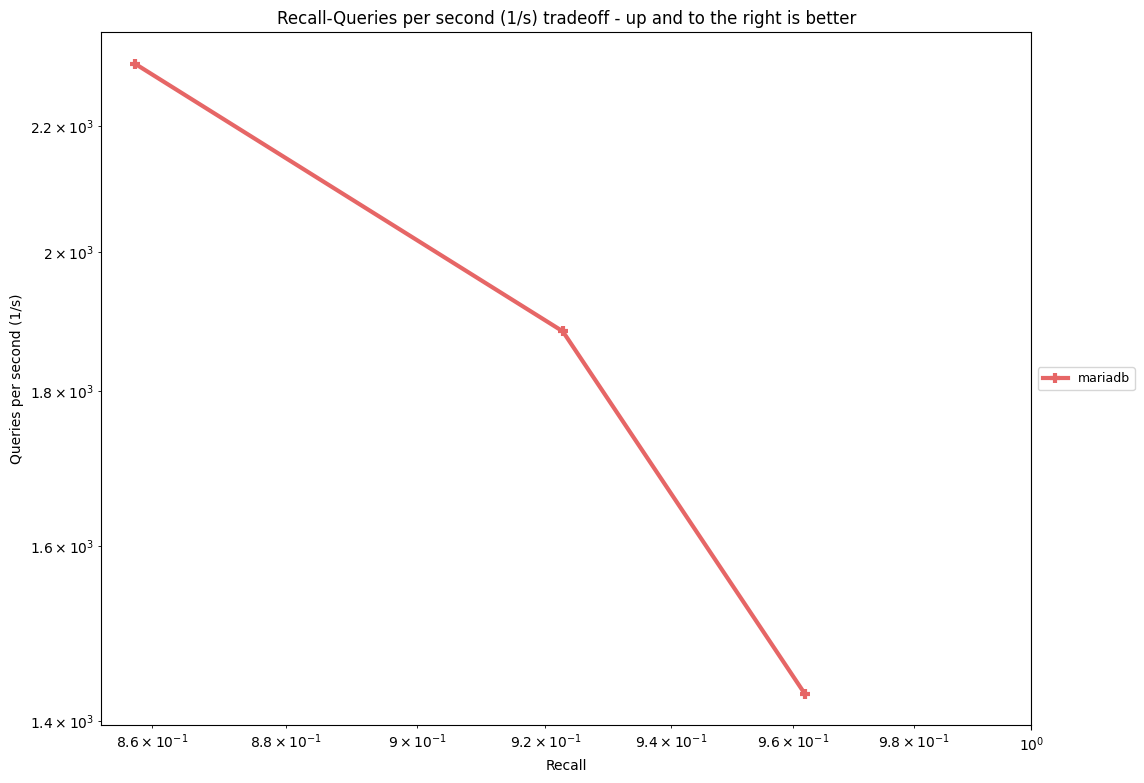
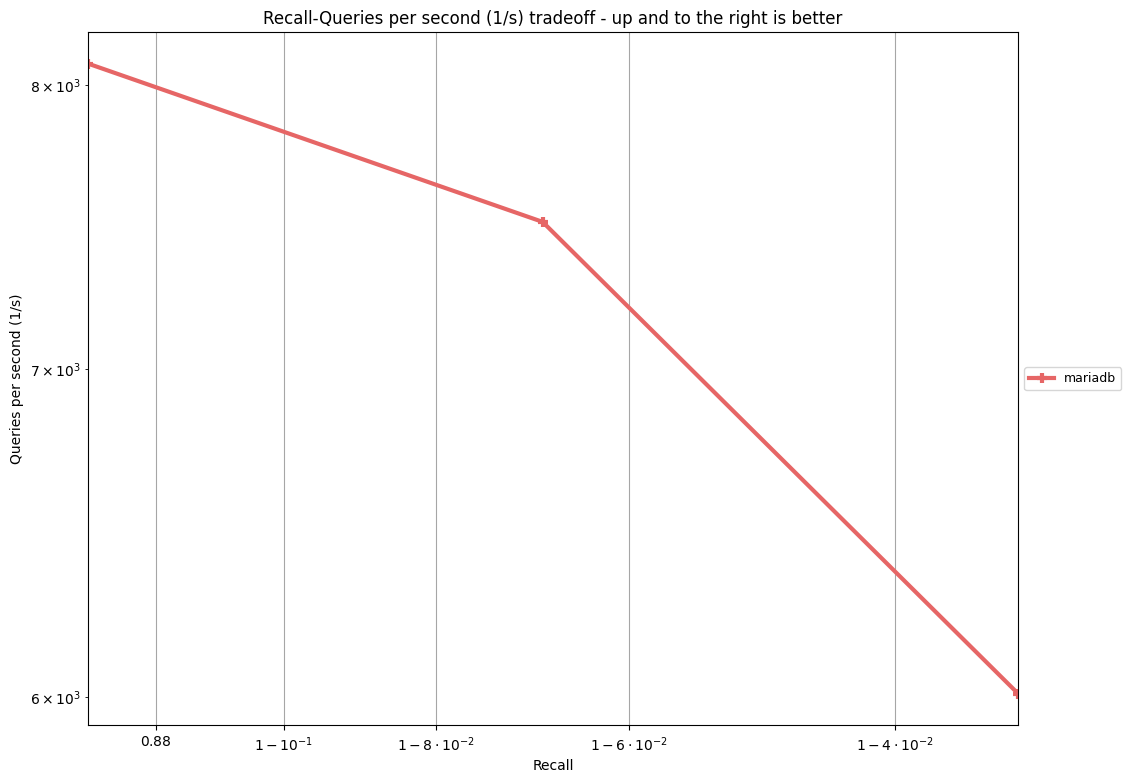
[dirty] fix cache size parameter

diff --git a/ann_benchmarks/algorithms/mariadb/module.py b/ann_benchmarks/algorithms/mariadb/module.py
@@ -144,7 +144,7 @@ class MariaDB(BaseANN):
             f"--socket={self._socket_file}",
             "--skip_networking",
             "--loose-innodb-buffer-pool-size=16G",
-            "--loose-mhnsw-cache-size=10G",
+            "--loose-mhnsw-max-cache-size=10G",
             f"--mhnsw_default_m={self._m}",
             "--skip_grant_tables"
         ]
